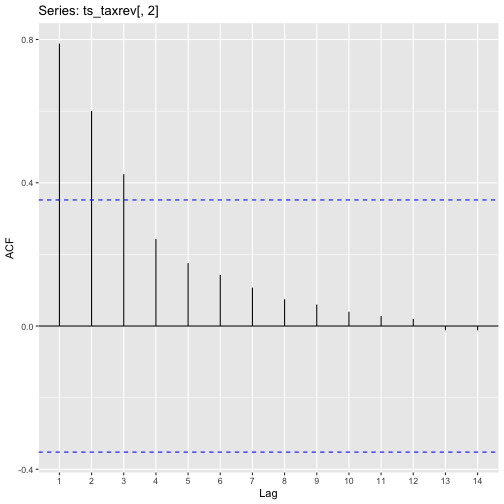
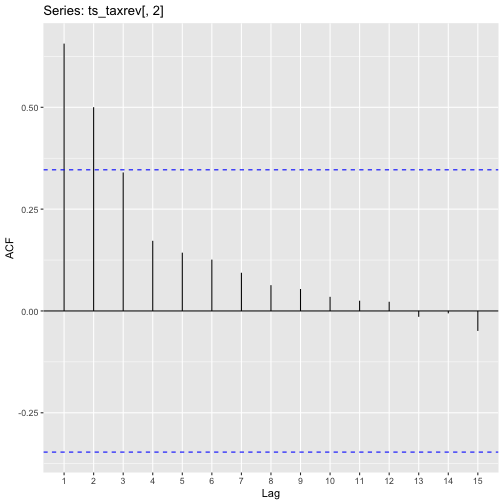
updates

diff --git a/content/teaching/slides/rlab10-forecasting.html b/content/teaching/slides/rlab10-forecasting.html
@@ -119,11 +119,11 @@ ts_name &lt;- ts(data_set_name[,-1],
 
 | year| revenue|
 |----:|-------:|
-| 2016|      44|
-| 2017|      55|
-| 2018|      58|
-| 2019|      48|
-| 2020|      44|
+| 2016|      42|
+| 2017|      49|
+| 2018|      51|
+| 2019|      53|
+| 2020|      72|
 
 
 ``` r
@@ -143,15 +143,15 @@ ts_data &lt;- ts(data[,-1],
 
 | year| quarter| revenue|
 |----:|-------:|-------:|
-| 2016|       1|      59|
-| 2016|       2|      57|
+| 2016|       1|      54|
+| 2016|       2|      61|
 
 
 
 | year| quarter| revenue|
 |----:|-------:|-------:|
-| 2020|       3|      61|
-| 2020|       4|      47|
+| 2020|       3|      40|
+| 2020|       4|      31|
 
 
 ``` r
@@ -177,13 +177,13 @@ ts_quarterly &lt;- ts(quarterly[,-1],
 ---
 # Creating TS object
 
-- `acc_taxrev` contains annual property tax and sales tax revenues for Athens-Clarke County from 1992-2022
+- `acc_taxrev` contains annual property tax and sales tax revenues for Athens-Clarke County from 1992-2023
 
 &gt; **In a new code chunk, set `acc_taxrev` as a TS object.**
 
 
 ``` r
-ts_taxrev &lt;- ts(acc_taxrev[,-1], start = 1992, end = 2022, 
+ts_taxrev &lt;- ts(acc_taxrev[,-1], start = 1992, end = 2023, 
                frequency = 1)
 ```
 
@@ -440,12 +440,12 @@ summary(proprev_drift)
 
 
 
-|     | Point Forecast|    Lo 80|    Hi 80|    Lo 95|    Hi 95|
-|:----|--------------:|--------:|--------:|--------:|--------:|
-|2023 |       76485236| 74356555| 78613917| 73229699| 79740773|
-|2024 |       78291986| 75233407| 81350565| 73614293| 82969679|
-|2025 |       80098736| 76294676| 83902796| 74280929| 85916543|
-|2026 |       81905486| 77446879| 86364093| 75086635| 88724337|
+|     | Point Forecast|    Lo 80|    Hi 80|       Lo 95|    Hi 95|
+|:----|--------------:|--------:|--------:|-----------:|--------:|
+|2024 |       20475986|  7211878| 33740094|    190283.1| 40761689|
+|2025 |       20475986|  1426861| 39525111|  -8657136.8| 49609109|
+|2026 |       20475986| -3205184| 44157156| -15741237.9| 56693210|
+|2027 |       20475986| -7267887| 48219859| -21954605.8| 62906578|
 
 ---
 # Practice
@@ -538,12 +538,12 @@ ets(ts_taxrev[,1]) %&gt;%
 
 
 
-|     | Point Forecast|    Lo 80|     Hi 80|    Lo 95|     Hi 95|
-|:----|--------------:|--------:|---------:|--------:|---------:|
-|2023 |       78804125| 75158599|  82449652| 73228774|  84379477|
-|2024 |       82929945| 76541329|  89318562| 73159399|  92700492|
-|2025 |       87055766| 77656647|  96454884| 72681055| 101430477|
-|2026 |       91181586| 78445166| 103918005| 71702913| 110660259|
+|     | Point Forecast|    Lo 80|    Hi 80|    Lo 95|    Hi 95|
+|:----|--------------:|--------:|--------:|--------:|--------:|
+|2024 |       20481439| 16635424| 24327453| 14599467| 26363411|
+|2025 |       20481439| 15013515| 25949363| 12118971| 28843907|
+|2026 |       20481439| 13748771| 27214107| 10184711| 30778167|
+|2027 |       20481439| 12665386| 28297492|  8527818| 32435060|
 
 ---
 # Practice
@@ -570,8 +570,8 @@ accuracy(proprev_drift)
 ```
 
 ```
-##              ME    RMSE     MAE        MPE     MAPE      MASE      ACF1
-## Training set  0 1606544 1157909 -0.7642346 2.878888 0.5846304 0.4373541
+##              ME     RMSE     MAE       MPE     MAPE MASE        ACF1
+## Training set  0 10021382 3665162 -4.501966 12.98861    1 -0.05077757
 ```
 
 ``` r
@@ -580,8 +580,8 @@ ets(ts_taxrev[,1]) %&gt;%
 ```
 
 ```
-##                    ME    RMSE     MAE       MPE    MAPE     MASE       ACF1
-## Training set 244500.5 1434558 1128638 0.4201145 2.85475 0.569851 0.07795879
+##                     ME    RMSE     MAE       MPE     MAPE     MASE        ACF1
+## Training set -118358.7 9886262 3669254 -4.939713 13.16167 1.001117 -0.04977708
 ```
 
 - ets model has a lower RMSE: better fit
